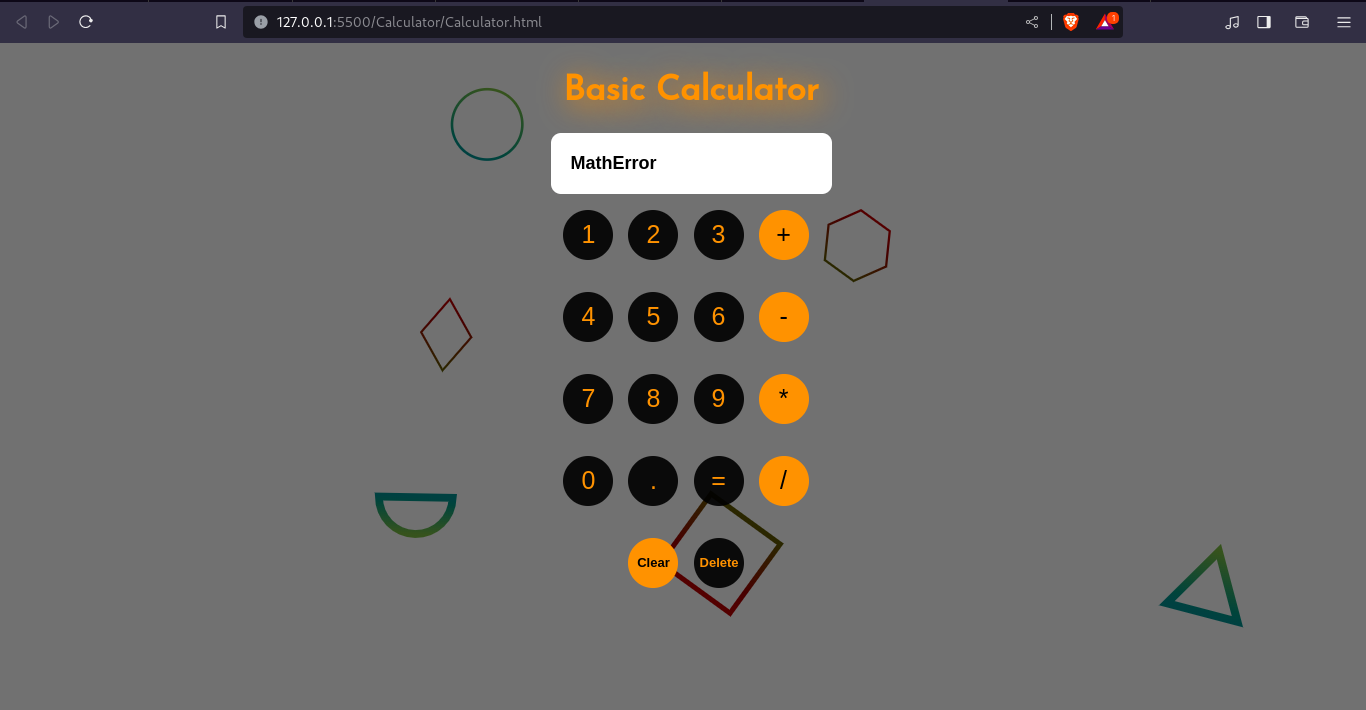
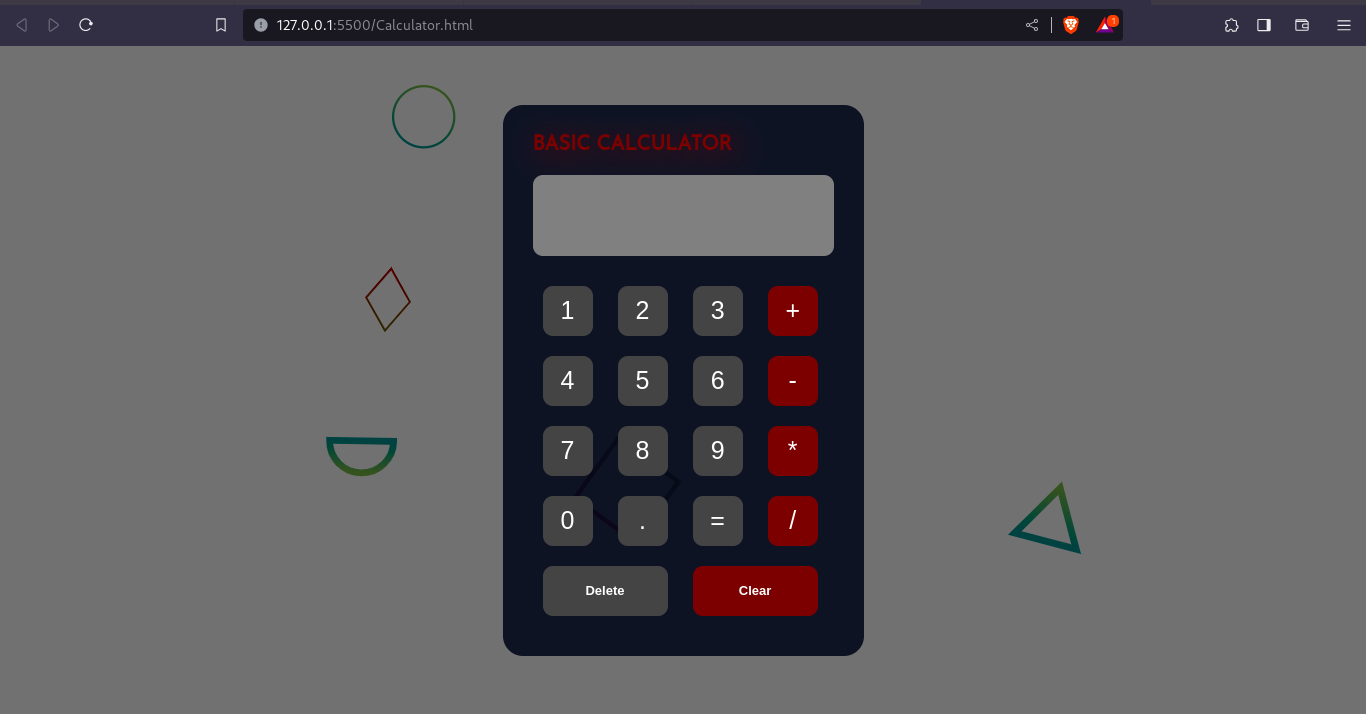
Changed Style

diff --git a/Calculator/style.css b/Calculator/style.css
@@ -1,52 +1,77 @@
+*{
+    margin: 0;
+    padding: 0;
+
+}
 body {
     font-family: 'Josefin Sans', sans-serif;
-    background-image: url(Images/scattered-forcefields.svg);
-    background-size: cover;
+    background-image: url(./Images/scattered-forcefields.svg);
 }
 
 h1 {
-    color: darkorange;
-    font-size: 35px;
-    text-shadow: 5px 5px 30px;
+    color: rgb(121, 13, 13);
+    font-size: 20px;
+    text-transform: uppercase;
+    text-align: left;
+    text-shadow: 5px 5px 30px ;
+    margin-bottom: 20px;
 }
 
 button {
+    margin: 10px;
     width: 50px;
     height: 50px;
     font-size: 25px;
-    margin-right: 10px;
     border: none;
-    border-radius: 60px;
+    border-radius: 10px;
 }
 
 input {
+    background-color: gray;
     border: none;
     border-radius: 10px;
-    padding: 20px;
+    margin-bottom: 20px;
+    padding: 30px;
     font-size: 18px;
     font-weight: bold;
 }
 
 .black-button {
-    background-color: rgba(0, 0, 0, 0.911);
-    color: darkorange;
+    background-color: rgb(68, 68, 68);
+    color:#fff;
+}
+
+.black-button:hover{
+    background-color: rgb(34, 34, 34);
 }
 
 .orange-button {
-    background-color: darkorange;
-    color: rgb(0, 0, 0);
+    background-color: rgb(121, 13, 13);
+    color:#fff;
+}
+
+.orange-button:hover{
+    background-color: rgb(83, 8, 8);
 }
 
 .clear-button {
     font-size: 13px;
     font-weight: bold;
+    width: 125px;
 }
 
-.calculator {
-    position: fixed;
-    width: 100%;
+.calculator{
+    height: 100vh;
     display: flex;
-    flex-direction: column;
     align-items: center;
     justify-content: center;
+}
+
+.calculator-box {
+    padding: 30px;
+    display: flex;
+    flex-direction: column;
+    align-items: flex-start;
+    background-color:rgba(1, 13, 26, 0.897);
+    border-radius: 20px;
 }

diff --git a/Calculator/Calculator.html b/Calculator/Calculator.html
@@ -13,6 +13,7 @@
 
 <body>
   <div class="calculator">
+    <div class="calculator-box">
     <header>
       <h1>Basic Calculator</h1>
     </header>
@@ -89,13 +90,14 @@
     </p>
 
     <p>
-      <button class="orange-button clear-button" onclick="
-          Clear();
-        ">Clear</button>
       <button class="black-button clear-button" onclick="
       deletebtn();
     ">Delete</button>
+      <button class="orange-button clear-button" onclick="
+          Clear();
+        ">Clear</button>
     </p>
+  </div>
   </div>
 </body>
 <script src="script.js"></script>
